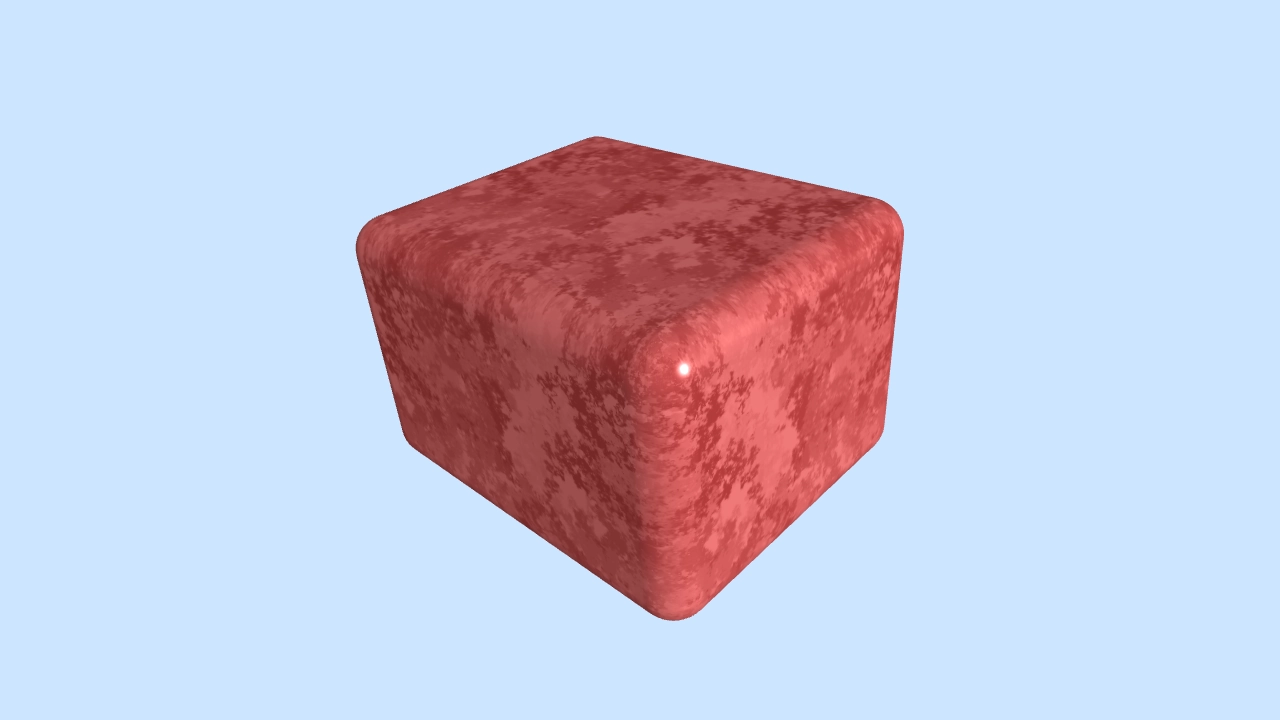
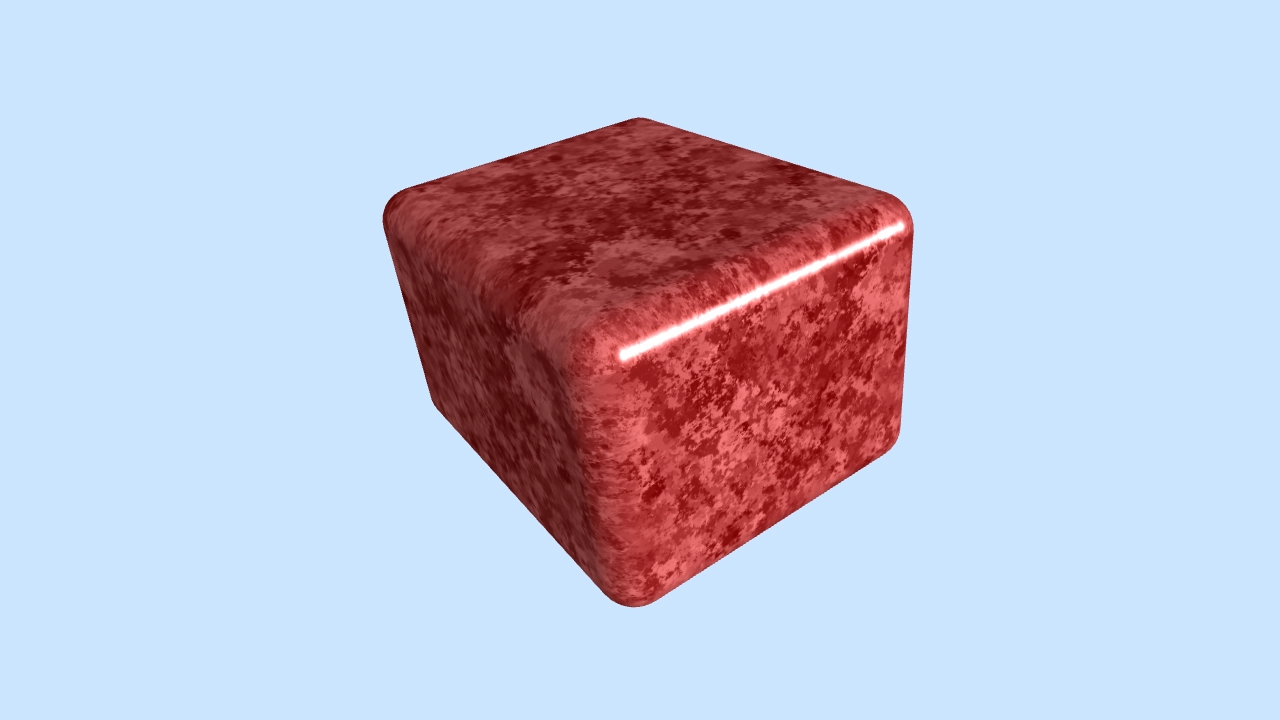
update demo

Changed region(s): [[0.2812, 0.1528, 0.7188, 0.8861]]

diff --git a/docs/assets/index.472bd278.js b/docs/assets/index.472bd278.js
@@ -1,0 +1,1 @@
+var t=Object.defineProperty,e=Object.getOwnPropertySymbols,o=Object.prototype.hasOwnProperty,n=Object.prototype.propertyIsEnumerable,r=(e,o,n)=>o in e?t(e,o,{enumerable:!0,configurable:!0,writable:!0,value:n}):e[o]=n,i=(t,i)=>{for(var s in i||(i={}))o.call(i,s)&&r(t,s,i[s]);if(e)for(var s of e(i))n.call(i,s)&&r(t,s,i[s]);return t},s=("undefined"!=typeof require&&require,(t,e,o)=>(r(t,"symbol"!=typeof e?e+"":e,o),o));import{f as l,m as a,l as p,a as c,c as h,s as u,b as m,d,e as f,n as g,g as v,h as x,R as y,t as b,i as w,j as N,p as j}from"./vendor.3b317da4.js";!function(){const t=document.createElement("link").relList;if(!(t&&t.supports&&t.supports("modulepreload"))){for(const t of document.querySelectorAll('link[rel="modulepreload"]'))e(t);new MutationObserver((t=>{for(const o of t)if("childList"===o.type)for(const t of o.addedNodes)"LINK"===t.tagName&&"modulepreload"===t.rel&&e(t)})).observe(document,{childList:!0,subtree:!0})}function e(t){if(t.ep)return;t.ep=!0;const e=function(t){const e={};return t.integrity&&(e.integrity=t.integrity),t.referrerpolicy&&(e.referrerPolicy=t.referrerpolicy),"use-credentials"===t.crossorigin?e.credentials="include":"anonymous"===t.crossorigin?e.credentials="omit":e.credentials="same-origin",e}(t);fetch(t.href,e)}}();const P=[{start:l(.5,-.5,.5),right:l(0,0,-1),up:l(0,1,0)},{start:l(-.5,-.5,-.5),right:l(0,0,1),up:l(0,1,0)},{start:l(-.5,.5,.5),right:l(1,0,0),up:l(0,0,-1)},{start:l(-.5,-.5,-.5),right:l(1,0,0),up:l(0,0,1)},{start:l(-.5,-.5,.5),right:l(1,0,0),up:l(0,1,0)},{start:l(.5,-.5,-.5),right:l(-1,0,0),up:l(0,1,0)}];function z(t,e,o,n,r,i,s){const l=[];for(let a=0;a<i;a++)for(let p=0;p<s;p++){const c=u(h(),t,e,n*a/i);u(c,c,o,r*p/s);const m=u(h(),c,e,n/i),d=u(h(),m,o,r/s),f=u(h(),c,o,r/s);l.push(c,m,d,c,d,f)}return l}function M(t,e,o){const n=c(h(),e,l(.5,.5,.5));m(n,n,[o,o,o]);const r=c(h(),e,l(-.5,-.5,-.5));d(r,r,[o,o,o]);const i=a(h(),r,t);f(i,n,i);const s=g(h(),m(h(),t,i));return{normal:s,position:u(h(),i,s,o)}}class O{constructor(){s(this,"positions",[]),s(this,"cells",[])}populateCell(t){0===this.cells.length&&this.cells.push([]),3===this.cells[this.cells.length-1].length&&this.cells.push([]),this.cells[this.cells.length-1].push(t)}index(t){for(const e of t){let t=!1;for(let o=0;o<this.positions.length;o++)if(v(this.positions[o],e)){this.populateCell(o),t=!0;break}t||(this.positions.push(x(e)),this.populateCell(this.positions.length-1))}}}const D={width:1,height:1,depth:1,radius:.125,resolution:5};const k=new Uint8Array(262144);k.fill(255);const q=[];for(let R=0;R<255;R++)q.push({color:255-R,x:Math.floor(512*Math.random()),y:Math.floor(512*Math.random())});for(let R=0;R<2e4;R++)for(const t of q)Math.random()<.5?(t.x+=Math.random()<.5?1:-1,t.x=(t.x%512+512)%512):(t.y+=Math.random()<.5?1:-1,t.y=(t.y%512+512)%512),k[512*t.y+t.x]=t.color;const C=y(),L=document.getElementsByTagName("canvas")[0],A=C.texture({data:k,width:512,height:512,format:"alpha",wrap:"repeat",min:"linear mipmap linear",mag:"linear"}),E=C({vert:"\n      precision mediump float;\n      attribute vec3 position, normal;\n      uniform mat4 model, view, projection;\n      varying vec3 vNormal, voNormal, vPos;\n      void main() {\n        gl_Position = projection * view * model * vec4(position, 1);\n        vNormal = (model * vec4(normal, 1)).xyz;\n        voNormal = normal;\n        vPos = position.xyz;\n      }",frag:"\n      precision mediump float;\n      uniform sampler2D texture;\n      varying vec3 vNormal, voNormal, vPos;\n      void main() {\n        vec3 onormal = normalize(voNormal);\n        vec3 blend = abs(onormal);\n        blend /= blend.x + blend.y + blend.z;\n        vec3 texel = vPos;\n        float tex = 0.0;\n        tex += blend.x * texture2D(texture, texel.yz).a;\n        tex += blend.y * texture2D(texture, texel.xz).a;\n        tex += blend.z * texture2D(texture, texel.xy).a;\n        vec3 lightDir = normalize(vec3(1,0,2));\n        float intensity = 0.5 + 0.5 * clamp(dot(normalize(vNormal), lightDir), 0.0, 1.0);\n        vec3 color = intensity * mix(vec3(0.5,0.0,0), vec3(1,0.5,0.5), tex) + vec3(pow(intensity, 257.0));\n        gl_FragColor = vec4(color,1);\n      }",attributes:{position:C.prop("positions"),normal:C.prop("normals")},uniforms:{texture:A,model:C.prop("model"),view:C.prop("view"),projection:C.prop("projection")},cull:{enable:!0,face:"back"},elements:C.prop("cells"),viewport:C.prop("viewport")}),I=new b(L,{drag:.01});I.spin(20,3);const F=w(N(),[0,0,3],[0,0,0],[0,1,0]),S=function(t={}){const{width:e,height:o,depth:n,radius:r,resolution:s}=i(i({},D),t),m=l(e,o,n);a(m,m,[2*r,2*r,2*r]);const d=new O;for(const i of P){const t=p(c(h(),i.right,m)),e=p(c(h(),i.up,m)),o=c(h(),i.start,m),n=u(h(),o,i.right,r),l=u(h(),o,i.right,t-r),a=u(h(),o,i.up,r),f=u(h(),a,i.right,r),g=u(h(),a,i.right,t-r),v=u(h(),o,i.up,e-r),x=u(h(),v,i.right,r),y=u(h(),v,i.right,t-r);d.index(z(o,i.right,i.up,r,r,s,s)),d.index(z(l,i.right,i.up,r,r,s,s)),d.index(z(v,i.right,i.up,r,r,s,s)),d.index(z(y,i.right,i.up,r,r,s,s)),d.index(z(a,i.right,i.up,r,e-2*r,s,1)),d.index(z(g,i.right,i.up,r,e-2*r,s,1)),d.index(z(n,i.right,i.up,t-2*r,r,1,s)),d.index(z(x,i.right,i.up,t-2*r,r,1,s)),d.index(z(f,i.right,i.up,t-2*r,e-2*r,1,1))}const{positions:f,cells:g}=d,v=[];for(const i of f){const t=M(i,m,r);i[0]=t.position[0],i[1]=t.position[1],i[2]=t.position[2],v.push(t.normal)}return{positions:f.map((t=>[t[0],t[1],t[2]])),normals:v.map((t=>[t[0],t[1],t[2]])),cells:g}}({width:1,height:1.25,depth:1.5}),_=C.buffer(S.positions),B=C.buffer(S.normals),K=C.elements(S.cells);!function t(){const e=j(N(),Math.PI/3,L.width/L.height,.1,100),o={x:0,y:0,width:L.width,height:L.height};C.clear({color:[.8,.9,1,1],depth:1}),E({positions:_,normals:B,cells:K,count:S.positions.length,model:I.rotation,view:F,projection:e,viewport:o}),requestAnimationFrame(t)}();

diff --git a/example/texture.ts b/example/texture.ts
@@ -1,5 +1,5 @@
 const size = 512;
-const count = 16;
+const count = 255;
 
 export const textureData = new Uint8Array(size * size);
 textureData.fill(255);
@@ -8,13 +8,13 @@ const walkers: { color: number; x: number; y: number }[] = [];
 
 for (let i = 0; i < count; i++) {
   walkers.push({
-    color: 255 - (i + 1) * 8,
+    color: 255 - i,
     x: Math.floor(Math.random() * size),
     y: Math.floor(Math.random() * size),
   });
 }
 
-for (let step = 0; step < 100000; step++) {
+for (let step = 0; step < 20000; step++) {
   for (const walker of walkers) {
     if (Math.random() < 0.5) {
       walker.x += Math.random() < 0.5 ? 1 : -1;

diff --git a/docs/index.html b/docs/index.html
@@ -6,7 +6,7 @@
     <meta name="viewport" content="width=device-width, initial-scale=1.0" />
     <title>Rounded Box Demo</title>
     
-    <script type="module" crossorigin src="./assets/index.50f4a301.js"></script>
+    <script type="module" crossorigin src="./assets/index.472bd278.js"></script>
     <link rel="modulepreload" href="./assets/vendor.3b317da4.js">
   </head>
   <body></body>
